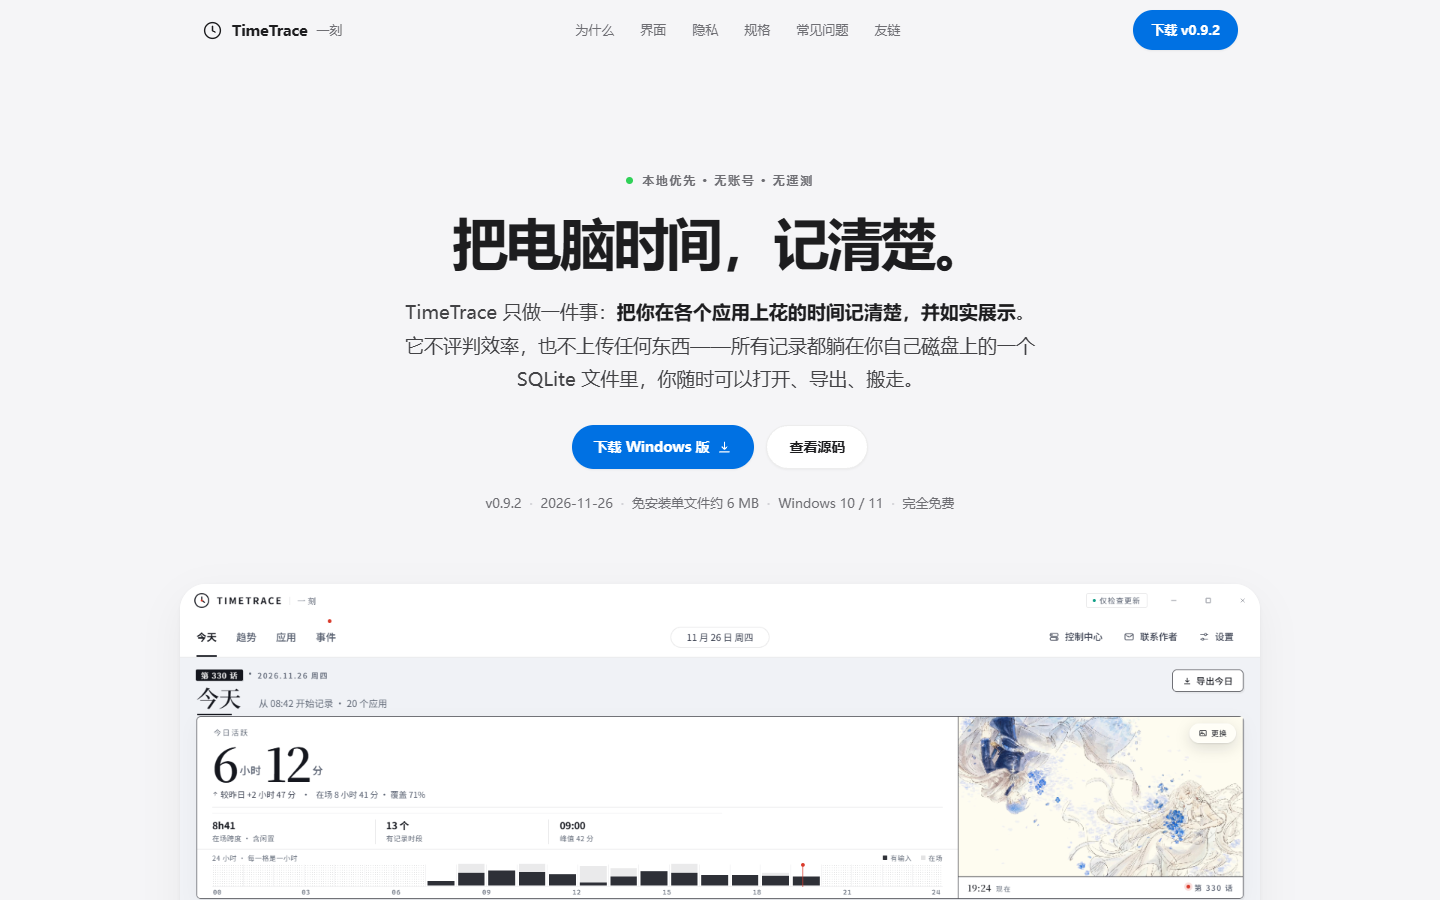
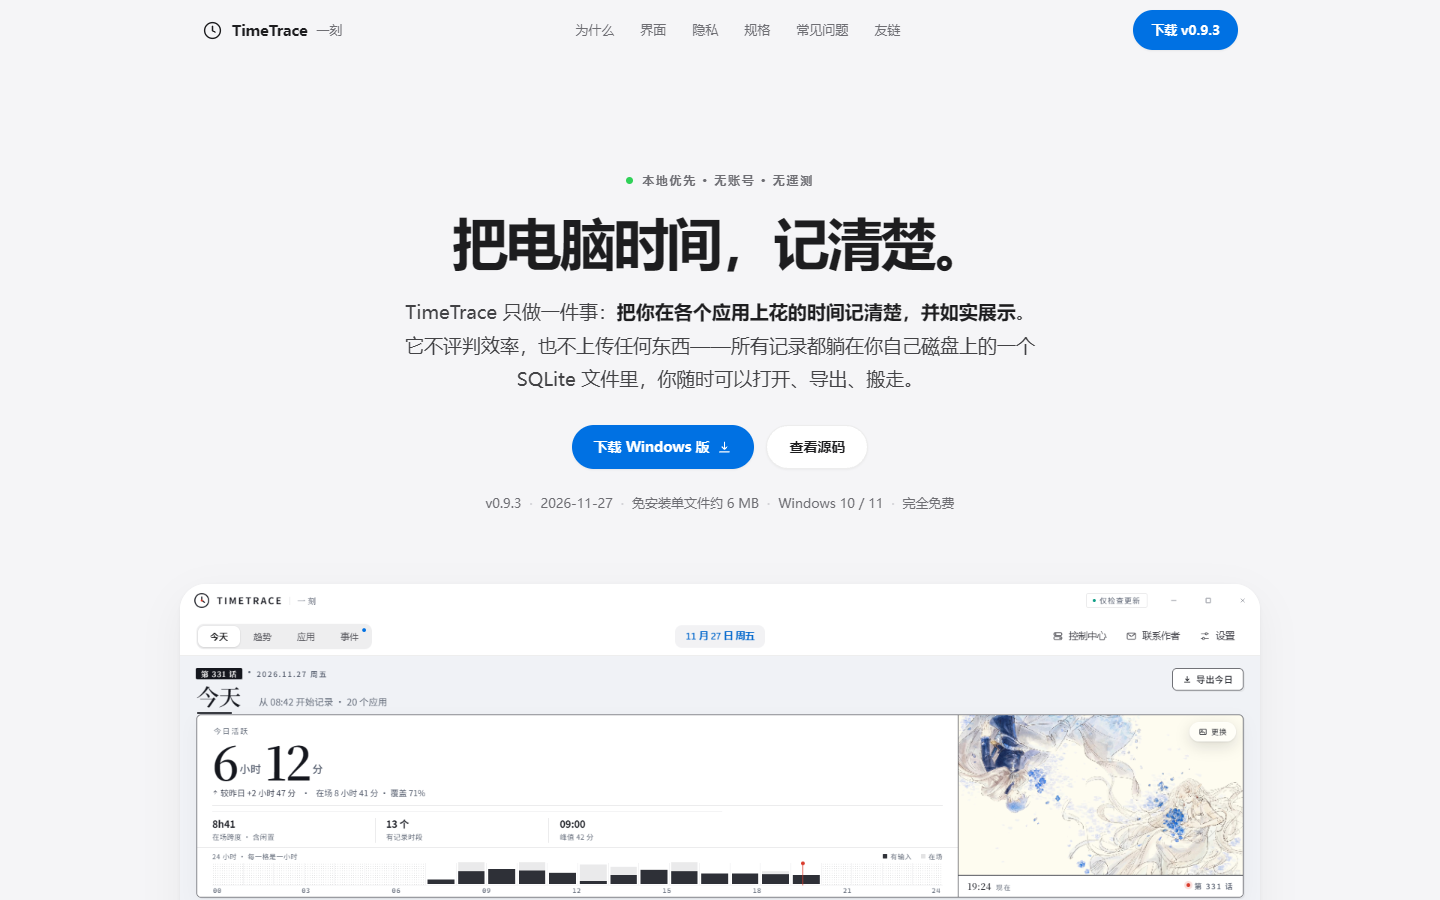
chore: 官网同步 0.9.3
页面 11 处版本号与发布日期更新，三处 setup 直链与两处目录链接指向 v0.9.3；README/HANDOFF 同步；用本次构建重截产品四图与整页四图；check_release.py 21/21 PASS。

@author zzj

diff --git a/index.html b/index.html
@@ -276,7 +276,7 @@ footer{margin-top:var(--gap-section);border-top:1px solid var(--hairline);paddin
       <a href="#faq">常见问题</a>
       <a href="#friends">友链</a>
     </nav>
-    <a class="btn btn-primary" href="https://gitee.com/zzjzgz/time-trace-code/raw/master/releases/v0.9.2/TimeTrace_0.9.2_x64-setup.exe" target="_blank" rel="noopener noreferrer">下载 v0.9.2</a>
+    <a class="btn btn-primary" href="https://gitee.com/zzjzgz/time-trace-code/raw/master/releases/v0.9.3/TimeTrace_0.9.3_x64-setup.exe" target="_blank" rel="noopener noreferrer">下载 v0.9.3</a>
   </div>
 </header>
 
@@ -289,17 +289,17 @@ footer{margin-top:var(--gap-section);border-top:1px solid var(--hairline);paddin
       <h1 id="heroTitle">把电脑时间，记清楚。</h1>
       <p class="lede">TimeTrace 只做一件事：<strong>把你在各个应用上花的时间记清楚，并如实展示</strong>。它不评判效率，也不上传任何东西——所有记录都躺在你自己磁盘上的一个 SQLite 文件里，你随时可以打开、导出、搬走。</p>
       <div class="hero-actions">
-        <a class="btn btn-primary" href="https://gitee.com/zzjzgz/time-trace-code/raw/master/releases/v0.9.2/TimeTrace_0.9.2_x64-setup.exe" target="_blank" rel="noopener noreferrer">下载 Windows 版
+        <a class="btn btn-primary" href="https://gitee.com/zzjzgz/time-trace-code/raw/master/releases/v0.9.3/TimeTrace_0.9.3_x64-setup.exe" target="_blank" rel="noopener noreferrer">下载 Windows 版
           <svg viewBox="0 0 24 24" fill="none" stroke="currentColor" stroke-width="1.8" stroke-linecap="round" stroke-linejoin="round" aria-hidden="true"><path d="M12 3v12m0 0 4-4m-4 4-4-4M4 19h16"/></svg>
         </a>
         <a class="btn btn-quiet" href="https://gitcode.com/weixin_51713937/TimeTrace" target="_blank" rel="noopener noreferrer">查看源码</a>
       </div>
-      <p class="hero-meta num">v0.9.2<span class="sep">·</span>2026-11-26<span class="sep">·</span>免安装单文件约 6 MB<span class="sep">·</span>Windows 10 / 11<span class="sep">·</span>完全免费</p>
+      <p class="hero-meta num">v0.9.3<span class="sep">·</span>2026-11-27<span class="sep">·</span>免安装单文件约 6 MB<span class="sep">·</span>Windows 10 / 11<span class="sep">·</span>完全免费</p>
     </div>
     <figure class="hero-art lift">
-      <img src="assets/screens/today.png" width="1440" height="900" data-img alt="TimeTrace 0.9.2「今天」视图：今日总时长 6 时 12 分、分类构成、使用最多的应用、系统事件与本周节奏">
+      <img src="assets/screens/today.png" width="1440" height="900" data-img alt="TimeTrace 0.9.3「今天」视图：今日总时长 6 时 12 分、分类构成、使用最多的应用、系统事件与本周节奏">
       <div class="img-fallback" role="status"><span>界面预览未能加载。</span><a href="https://gitee.com/zzjzgz/time-trace-code" target="_blank" rel="noopener noreferrer">到发布仓查看版本说明</a></div>
-      <figcaption class="source-badge"><span class="mark" aria-hidden="true"></span>界面截图 · 由当前构建 v0.9.2 实际运行截取</figcaption>
+      <figcaption class="source-badge"><span class="mark" aria-hidden="true"></span>界面截图 · 由当前构建 v0.9.3 实际运行截取</figcaption>
     </figure>
   </section>
 
@@ -356,10 +356,10 @@ footer{margin-top:var(--gap-section);border-top:1px solid var(--hairline);paddin
       <img src="assets/screens/trend.png" width="1440" height="900" data-img alt="趋势视图（年）：年度活跃热力图、常用应用 Top 8、时段分布与全年分类构成">
       <img src="assets/screens/apps.png" width="1440" height="900" data-img alt="应用视图：按应用排行的时长列表">
       <img src="assets/screens/events.png" width="1440" height="900" data-img alt="事件视图：按时间顺序排列的系统事件流">
-      <div class="img-fallback" role="status"><span>界面预览未能加载。</span><a href="https://gitee.com/zzjzgz/time-trace-code/tree/master/releases/v0.9.2" target="_blank" rel="noopener noreferrer">到发布仓查看版本说明</a></div>
+      <div class="img-fallback" role="status"><span>界面预览未能加载。</span><a href="https://gitee.com/zzjzgz/time-trace-code/tree/master/releases/v0.9.3" target="_blank" rel="noopener noreferrer">到发布仓查看版本说明</a></div>
     </div>
     <p class="screen-cap" id="viewCap">今天：总时长、分类构成、使用最多的应用、系统事件与本周节奏，一屏看完。</p>
-    <p class="screen-note">以上界面截图由 TimeTrace v0.9.2 当前源码构建后实际运行截取；画面中的数据为内置演示快照，不是任何真实用户的记录。截图取自网页预览，应用图标在这里是字块兜底；安装后的桌面版从本机 exe 提取真实图标（不联网、不内置第三方品牌图标包）。</p>
+    <p class="screen-note">以上界面截图由 TimeTrace v0.9.3 当前源码构建后实际运行截取；画面中的数据为内置演示快照，不是任何真实用户的记录。截图取自网页预览，应用图标在这里是字块兜底；安装后的桌面版从本机 exe 提取真实图标（不联网、不内置第三方品牌图标包）。</p>
   </section>
 
   <!-- 数据属于你 -->
@@ -420,7 +420,7 @@ footer{margin-top:var(--gap-section);border-top:1px solid var(--hairline);paddin
       <h2 id="specTitle">一个小到不需要管理的程序。</h2>
     </div>
     <dl class="panel spec-grid">
-      <div class="spec-item"><dt>当前版本</dt><dd class="num">0.9.2<small>2026-11-26 发布</small></dd></div>
+      <div class="spec-item"><dt>当前版本</dt><dd class="num">0.9.3<small>2026-11-27 发布</small></dd></div>
       <div class="spec-item"><dt>体积</dt><dd>约 6 MB<small>免安装单文件，双击即用</small></dd></div>
       <div class="spec-item"><dt>技术栈</dt><dd>Tauri 2 · Rust · React 19<small>TypeScript · SQLite（rusqlite bundled）</small></dd></div>
       <div class="spec-item"><dt>运行平台</dt><dd>Windows 10 / 11（x64）<small>需要 Microsoft Edge WebView2 运行时</small></dd></div>
@@ -434,15 +434,15 @@ footer{margin-top:var(--gap-section);border-top:1px solid var(--hairline);paddin
     <div class="cta">
       <span class="orb orb-a" aria-hidden="true"></span><span class="orb orb-b" aria-hidden="true"></span>
       <div class="cta-in">
-        <div class="kicker">下载 · v0.9.2</div>
+        <div class="kicker">下载 · v0.9.3</div>
         <h2 id="downloadTitle">把时间留在自己手里。</h2>
         <p>一个安装包，点击即下载。完全免费，不需要注册，也不会问你要邮箱。</p>
         <div class="cta-actions">
-          <a class="glass-chip" href="https://gitee.com/zzjzgz/time-trace-code/raw/master/releases/v0.9.2/TimeTrace_0.9.2_x64-setup.exe" target="_blank" rel="noopener noreferrer">下载安装向导 · setup.exe
+          <a class="glass-chip" href="https://gitee.com/zzjzgz/time-trace-code/raw/master/releases/v0.9.3/TimeTrace_0.9.3_x64-setup.exe" target="_blank" rel="noopener noreferrer">下载安装向导 · setup.exe
             <svg viewBox="0 0 24 24" fill="none" stroke="currentColor" stroke-width="1.8" stroke-linecap="round" stroke-linejoin="round" aria-hidden="true"><path d="M7 17 17 7M8 7h9v9"/></svg>
           </a>
         </div>
-        <p class="cta-note">点击即开始下载 v0.9.2 安装包。项目没有代码签名证书，Windows SmartScreen 可能提示「未知发布者」；安装前请先从托盘右键退出正在运行的 TimeTrace。需要免安装单文件或 MSI，请到发布仓的 <a href="https://gitee.com/zzjzgz/time-trace-code/tree/master/releases/v0.9.2" target="_blank" rel="noopener noreferrer">v0.9.2 目录</a>；历史版本与更新清单也在同一个仓库。</p>
+        <p class="cta-note">点击即开始下载 v0.9.3 安装包。项目没有代码签名证书，Windows SmartScreen 可能提示「未知发布者」；安装前请先从托盘右键退出正在运行的 TimeTrace。需要免安装单文件或 MSI，请到发布仓的 <a href="https://gitee.com/zzjzgz/time-trace-code/tree/master/releases/v0.9.3" target="_blank" rel="noopener noreferrer">v0.9.3 目录</a>；历史版本与更新清单也在同一个仓库。</p>
       </div>
     </div>
   </section>

diff --git a/HANDOFF.md b/HANDOFF.md
@@ -84,13 +84,13 @@
 
 | 字段 | 值 | 来源 |
 |---|---|---|
-| 版本 | 0.9.2 | `app/package.json`、`src-tauri/Cargo.toml`、`tauri.conf.json`、`latest.json`、CHANGELOG |
-| 发布日期 | 2026-11-26 | CHANGELOG / 发布仓 `latest.json` |
+| 版本 | 0.9.3 | `app/package.json`、`src-tauri/Cargo.toml`、`tauri.conf.json`、`latest.json`、CHANGELOG |
+| 发布日期 | 2026-11-27 | CHANGELOG / 发布仓 `latest.json` |
 | 技术栈 | Tauri 2 · Rust · React 19 · TypeScript · SQLite | `TimeTrace/README.md` |
 | 四视图 | 今天 / 趋势 / 应用 / 事件 | `app/src/App.tsx` |
 | 记录边界 | README「它记录什么」表 | `TimeTrace/README.md` |
-| 安装包直链 | Gitee `releases/v0.9.2/TimeTrace_0.9.2_x64-setup.exe`（raw） | 本地产物 3,201,360 字节；SHA256 与 `latest.json` 一致，推送后实查直链 |
-| 其他产物 | Gitee `releases/v0.9.2` 目录 | 仅在 CTA 提示文案中给出目录页；不设按钮 |
+| 安装包直链 | Gitee `releases/v0.9.3/TimeTrace_0.9.3_x64-setup.exe`（raw） | 本地产物 3,339,974 字节；SHA256 与 `latest.json` 一致，推送后实查直链 |
+| 其他产物 | Gitee `releases/v0.9.3` 目录 | 仅在 CTA 提示文案中给出目录页；不设按钮 |
 | 许可 | 木兰宽松许可证 v2 | `LICENSE` |
 | 友链 | 屿见官网 · `https://yujian.cystation.site` · 以优越的技术为大家提供更优渥的平台 | 用户提供，地址实查 200 |
 
@@ -105,7 +105,7 @@
 ## 9. 已知限制
 
 1. **脚本 WARN 项**：`check_design_pack.py --strict` 复跑结果 WARN 0（无原文可抄）；FAIL 0，PASS 见 `_workflow/gate-report.md`。
-2. 顶层 `TimeTrace/README.md` 的下载表随每次发版同步（最近一次 2026-11-26 到 **0.9.2**）；本页按 `latest.json` / `package.json` / `Cargo.toml` 口径，两者已一致。
+2. 顶层 `TimeTrace/README.md` 的下载表随每次发版同步（最近一次 2026-11-27 到 **0.9.3**）；本页按 `latest.json` / `package.json` / `Cargo.toml` 口径，两者已一致。
 3. 导航按钮视觉高度 40px，低于 44px 建议值；放大到 64px 导航高度即可消除。
 4. 外链（Gitee / GitCode / 更新清单）不可达时页面不做运行时探测与提示，交给浏览器处理。
 5. 界面截图使用内置演示快照，页面已明确标注「不是任何真实用户的记录」；若日后换成真实数据截图，需同步改图注。

diff --git a/README.md b/README.md
@@ -11,8 +11,8 @@ TimeTrace 是一款**本地优先的 Windows 应用使用时长统计工具**：
 | 官网 | <https://zzjzgz.github.io> |
 | 应用源码 | <https://gitcode.com/weixin_51713937/TimeTrace> |
 | 安装包 / 历史版本 / 更新清单 | <https://gitee.com/zzjzgz/time-trace-code> |
-| v0.9.2 安装向导（直链） | <https://gitee.com/zzjzgz/time-trace-code/raw/master/releases/v0.9.2/TimeTrace_0.9.2_x64-setup.exe> |
-| 当前版本 | 0.9.2（2026-11-26） |
+| v0.9.3 安装向导（直链） | <https://gitee.com/zzjzgz/time-trace-code/raw/master/releases/v0.9.3/TimeTrace_0.9.3_x64-setup.exe> |
+| 当前版本 | 0.9.3（2026-11-27） |
 | 源码许可 | 木兰宽松许可证第 2 版 |
 
 ## 仓库结构
@@ -46,7 +46,7 @@ python -m http.server 8080
 
 ## 截图从哪来
 
-`assets/screens/` 不是历史遗留素材，是从 TimeTrace **v0.9.2 当前源码重新构建后实际运行截取**的：
+`assets/screens/` 不是历史遗留素材，是从 TimeTrace **v0.9.3 当前源码重新构建后实际运行截取**的：
 
 ```bash
 # 在 TimeTrace/app 目录下
